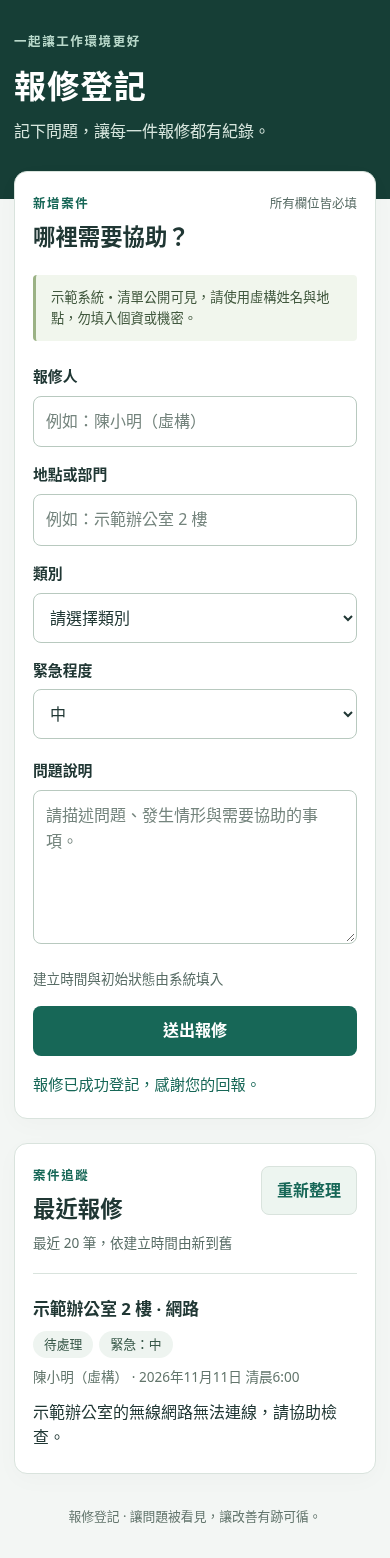
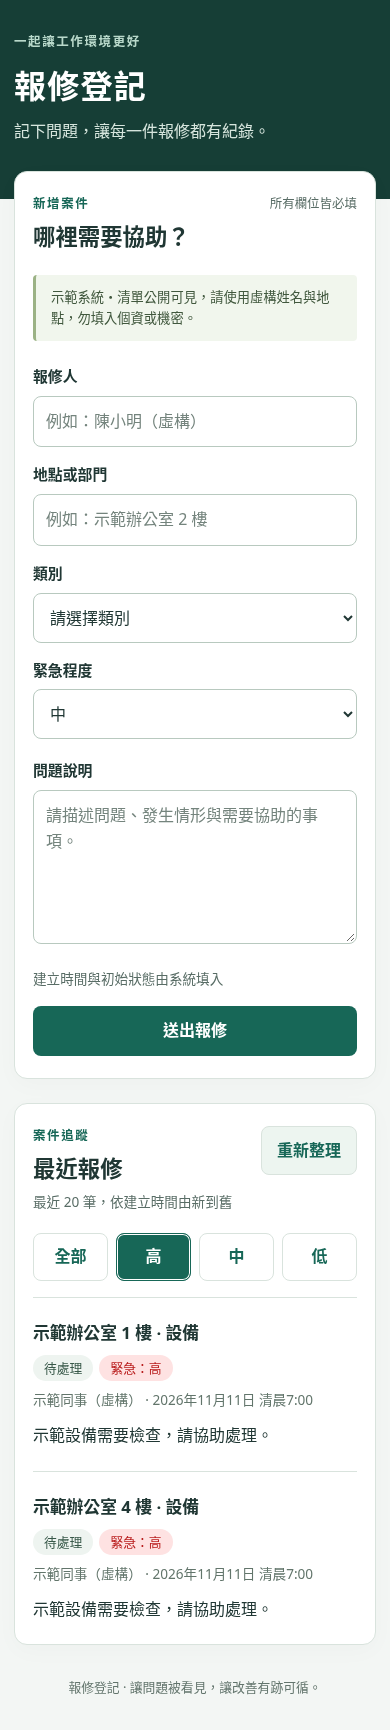
新增報修清單緊急程度篩選

Changed region(s): [[0.0, 0.0, 1.0, 0.9859], [0.8615, 0.2465, 0.9231, 0.4621], [0.7077, 0.7086, 0.8923, 0.7702]]

diff --git a/style.css b/style.css
@@ -1,3 +1,9 @@
 :root{font-family:system-ui,-apple-system,"Noto Sans TC",sans-serif;color:#203734;background:#f3f6f4;line-height:1.6;font-synthesis:none;--accent:#176757;--border:#d9e3dd}
-*{box-sizing:border-box}body{margin:0}.container{width:min(940px,calc(100% - 40px));margin-inline:auto}.hero{background:#163e36;color:#fff;padding:48px 0 64px}.hero h1{font-size:clamp(2rem,5vw,2.8rem);letter-spacing:.04em;margin:8px 0}.hero p{margin:0;color:#d6e5dd}.eyebrow{font-size:.78rem;font-weight:700;letter-spacing:.13em;color:var(--accent);margin:0 0 5px}.hero .eyebrow{color:#b9d9cb}main{margin-top:-28px!important}.panel{position:relative;background:#fff;border:1px solid var(--border);border-radius:18px;padding:30px;margin-bottom:24px;box-shadow:0 6px 24px #163e3606}.section-heading{display:flex;align-items:center;justify-content:space-between;gap:16px;margin-bottom:20px}h2{font-size:1.4rem;margin:0}.required-note,.muted,.form-footer span{font-size:.85rem;color:#596d66}.muted{margin:5px 0 0}.notice{background:#f1f6ed;border-left:3px solid #9bb285;border-radius:4px;padding:12px 15px;font-size:.88rem;color:#41583e;margin-bottom:24px}fieldset{border:0;padding:0;margin:0;min-width:0}.form-grid{display:grid;grid-template-columns:1fr 1fr;gap:20px}label{display:block;font-size:.93rem;font-weight:650}input,select,textarea{display:block;width:100%;font:inherit;font-weight:400;font-size:1rem;color:#203734;border:1px solid #b8c9bf;border-radius:8px;background:#fff;padding:12px;margin-top:7px;min-height:48px}textarea{resize:vertical}input::placeholder,textarea::placeholder{color:#74847d}input:focus,select:focus,textarea:focus{outline:3px solid #acd8c5;outline-offset:2px;border-color:var(--accent)}.description-label{margin-top:20px}.form-footer{display:flex;align-items:center;justify-content:space-between;gap:16px;margin-top:24px}button{font:inherit;font-weight:650;border:1px solid transparent;border-radius:8px;min-height:48px;padding:11px 24px;color:white;background:var(--accent);cursor:pointer}button:hover{background:#105143}button:focus-visible{outline:3px solid #71ad97;outline-offset:3px}button:disabled{opacity:.55;cursor:wait}.secondary{background:#fff;border-color:var(--border);color:var(--accent);white-space:nowrap}.secondary:hover{background:#edf5f0}.message{margin:16px 0 0;font-size:.95rem;overflow-wrap:anywhere}.message:empty{display:none}.error{color:#a52d26}.success{color:#176757}.request-card{border-top:1px solid var(--border);padding:22px 0}.request-card:last-child{padding-bottom:0}.card-heading{display:flex;gap:12px;justify-content:space-between;align-items:start}.request-card h3{font-size:1.05rem;margin:0;overflow-wrap:anywhere}.badge{display:inline-block;border-radius:99px;background:#eef4f0;color:#385849;font-size:.8rem;padding:3px 11px;white-space:nowrap}.badges{display:flex;flex-wrap:wrap;gap:6px}.urgency-high{background:#fff0e9;color:#9c4020}.request-meta{font-size:.85rem;color:#62756b;margin:8px 0}.request-description{white-space:pre-wrap;overflow-wrap:anywhere;margin:12px 0 0}.page-footer{text-align:center;color:#63756d;font-size:.8rem;padding:8px 0 32px}
+*{box-sizing:border-box}body{margin:0}.container{width:min(940px,calc(100% - 40px));margin-inline:auto}.hero{background:#163e36;color:#fff;padding:48px 0 64px}.hero h1{font-size:clamp(2rem,5vw,2.8rem);letter-spacing:.04em;margin:8px 0}.hero p{margin:0;color:#d6e5dd}.eyebrow{font-size:.78rem;font-weight:700;letter-spacing:.13em;color:var(--accent);margin:0 0 5px}.hero .eyebrow{color:#b9d9cb}main{margin-top:-28px!important}.panel{position:relative;background:#fff;border:1px solid var(--border);border-radius:18px;padding:30px;margin-bottom:24px;box-shadow:0 6px 24px #163e3606}.section-heading{display:flex;align-items:center;justify-content:space-between;gap:16px;margin-bottom:20px}h2{font-size:1.4rem;margin:0}.required-note,.muted,.form-footer span{font-size:.85rem;color:#596d66}.muted{margin:5px 0 0}.notice{background:#f1f6ed;border-left:3px solid #9bb285;border-radius:4px;padding:12px 15px;font-size:.88rem;color:#41583e;margin-bottom:24px}fieldset{border:0;padding:0;margin:0;min-width:0}.form-grid{display:grid;grid-template-columns:1fr 1fr;gap:20px}label{display:block;font-size:.93rem;font-weight:650}input,select,textarea{display:block;width:100%;font:inherit;font-weight:400;font-size:1rem;color:#203734;border:1px solid #b8c9bf;border-radius:8px;background:#fff;padding:12px;margin-top:7px;min-height:48px}textarea{resize:vertical}input::placeholder,textarea::placeholder{color:#74847d}input:focus,select:focus,textarea:focus{outline:3px solid #acd8c5;outline-offset:2px;border-color:var(--accent)}.description-label{margin-top:20px}.form-footer{display:flex;align-items:center;justify-content:space-between;gap:16px;margin-top:24px}button{font:inherit;font-weight:650;border:1px solid transparent;border-radius:8px;min-height:48px;padding:11px 24px;color:white;background:var(--accent);cursor:pointer}button:hover{background:#105143}button:focus-visible{outline:3px solid #71ad97;outline-offset:3px}button:disabled{opacity:.55;cursor:wait}.secondary{background:#fff;border-color:var(--border);color:var(--accent);white-space:nowrap}.secondary:hover{background:#edf5f0}.message{margin:16px 0 0;font-size:.95rem;overflow-wrap:anywhere}.message:empty{display:none}.error{color:#a52d26}.success{color:#176757}.request-card{border-top:1px solid var(--border);padding:22px 0}.request-card:last-child{padding-bottom:0}.card-heading{display:flex;gap:12px;justify-content:space-between;align-items:start}.request-card h3{font-size:1.05rem;margin:0;overflow-wrap:anywhere}.badge{display:inline-block;border-radius:99px;background:#eef4f0;color:#385849;font-size:.8rem;padding:3px 11px;white-space:nowrap}.badges{display:flex;flex-wrap:wrap;gap:6px}.urgency-high{background:#fee2e2;color:#b91c1c}.request-meta{font-size:.85rem;color:#62756b;margin:8px 0}.request-description{white-space:pre-wrap;overflow-wrap:anywhere;margin:12px 0 0}.page-footer{text-align:center;color:#63756d;font-size:.8rem;padding:8px 0 32px}
 @media(max-width:600px){.container{width:calc(100% - 28px)}.hero{padding:32px 0 54px}.panel{padding:22px 18px;border-radius:13px}.form-grid{grid-template-columns:1fr;gap:16px}.section-heading{align-items:start;flex-wrap:wrap}.required-note{font-size:.78rem}.form-footer{align-items:stretch;flex-direction:column}.form-footer button{width:100%}.card-heading{flex-direction:column;gap:8px}.secondary{padding-inline:15px}.notice{font-size:.83rem}}
+
+/* 手機可輕鬆點選，選取狀態同時提供視覺與輔助科技提示。 */
+.urgency-filters { display: flex; gap: 8px; margin-bottom: 16px; }
+.urgency-filters button { flex: 1; padding: 10px 12px; background: #fff; color: var(--accent); border-color: var(--border); }
+.urgency-filters button:hover { background: #edf5f0; }
+.urgency-filters button[aria-pressed="true"] { background: var(--accent); color: #fff; border-color: var(--accent); box-shadow: inset 0 0 0 1px currentColor; }

diff --git a/app.js b/app.js
@@ -8,6 +8,10 @@
   const formMessage = document.querySelector('#form-message');
   const listMessage = document.querySelector('#list-message');
   const list = document.querySelector('#request-list');
+  const filterButtons = document.querySelectorAll('#urgency-filters button');
+  const filterMessage = document.querySelector('#filter-message');
+  let selectedUrgency = '全部';
+  let hasLoaded = false;
   let client;
   let submitting = false;
   let loading = false;
@@ -25,11 +29,33 @@
     return node;
   }
 
+  // 只篩選已讀取的最近 20 筆，不發出額外資料庫請求。
+  function applyUrgencyFilter() {
+    let visibleCount = 0;
+    for (const card of list.children) {
+      card.hidden = selectedUrgency !== '全部' && card.dataset.urgency !== selectedUrgency;
+      if (!card.hidden) visibleCount += 1;
+    }
+    for (const button of filterButtons) {
+      button.setAttribute('aria-pressed', String(button.dataset.urgency === selectedUrgency));
+    }
+    message(filterMessage, hasLoaded && list.childElementCount > 0 && visibleCount === 0
+      ? `最近 20 筆中沒有緊急程度為「${selectedUrgency}」的報修。` : '');
+  }
+
+  for (const button of filterButtons) {
+    button.addEventListener('click', () => {
+      selectedUrgency = button.dataset.urgency;
+      applyUrgencyFilter();
+    });
+  }
+
   function renderRequests(requests) {
     const fragment = document.createDocumentFragment();
     for (const request of requests) {
       const card = document.createElement('article');
       card.className = 'request-card';
+      card.dataset.urgency = request.urgency;
       const heading = element('div', '', 'card-heading');
       heading.append(element('h3', `${request.location} · ${request.category}`));
       const badges = element('div', '', 'badges');
@@ -48,6 +74,8 @@
       fragment.append(card);
     }
     list.replaceChildren(fragment);
+    hasLoaded = true;
+    applyUrgencyFilter();
   }
 
   async function loadRequests() {

diff --git a/index.html b/index.html
@@ -33,6 +33,13 @@
     </section>
     <section class="panel" aria-labelledby="list-title">
       <div class="section-heading"><div><p class="eyebrow">案件追蹤</p><h2 id="list-title">最近報修</h2><p class="muted">最近 20 筆，依建立時間由新到舊</p></div><button id="refresh-button" class="secondary" type="button" disabled>重新整理</button></div>
+      <div id="urgency-filters" class="urgency-filters" role="group" aria-label="依緊急程度篩選">
+        <button type="button" data-urgency="全部" aria-pressed="true">全部</button>
+        <button type="button" data-urgency="高" aria-pressed="false">高</button>
+        <button type="button" data-urgency="中" aria-pressed="false">中</button>
+        <button type="button" data-urgency="低" aria-pressed="false">低</button>
+      </div>
+      <p id="filter-message" class="message" role="status" aria-live="polite"></p>
       <p id="list-message" class="message" role="status" aria-live="polite">正在載入清單…</p>
       <div id="request-list" aria-busy="true"></div>
     </section>

diff --git a/README.md b/README.md
@@ -14,3 +14,11 @@
 ## 驗證方式
 
 以虛構姓名及地點測試：填寫所有欄位後送出，確認成功訊息、表單清空與清單更新；清單最多 20 筆且新的在上方。新增只送五個輸入欄位，不送狀態、編號與時間。測試空白內容、離線與讀寫錯誤時的訊息及內容保留，並確認手機寬度沒有橫向捲動。清單採純文字呈現輸入內容，不提供修改或刪除操作。資料庫權限是否確實拒絕修改及刪除，仍須在已套用 SQL 的測試專案另外驗證。
+
+## 清單緊急程度篩選
+
+清單上方新增「全部／高／中／低」按鈕，預設為「全部」，選中的按鈕會以深綠底白字標示，並提供 `aria-pressed` 狀態。篩選只顯示網頁已讀取的最近 20 筆中的對應案件，不會額外查詢資料庫，也不代表所有歷史案件；沒有符合項目時會顯示提示。重新整理或新增成功後仍保留目前選擇的篩選，高緊急程度標籤改為紅底色系搭配紅字。
+
+本次僅調整網頁與說明文件，沒有修改資料庫、欄位、SQL、權限或 `supabase/` 目錄。
+
+手機驗證：開啟此分支的本機預覽，往下捲至「最近報修」，確認預設選中「全部」。依序點選「高／中／低」，確認只顯示對應緊急程度、選中按鈕明顯且「高」標籤呈紅色；再點「全部」恢復原清單。若某程度沒有案件，應顯示無符合項目的提示。篩選不會觸發網路請求；可在瀏覽器開發工具的 Network 面板確認。PR 尚未合併時，main 的 GitHub Pages 不會顯示這次變更。
